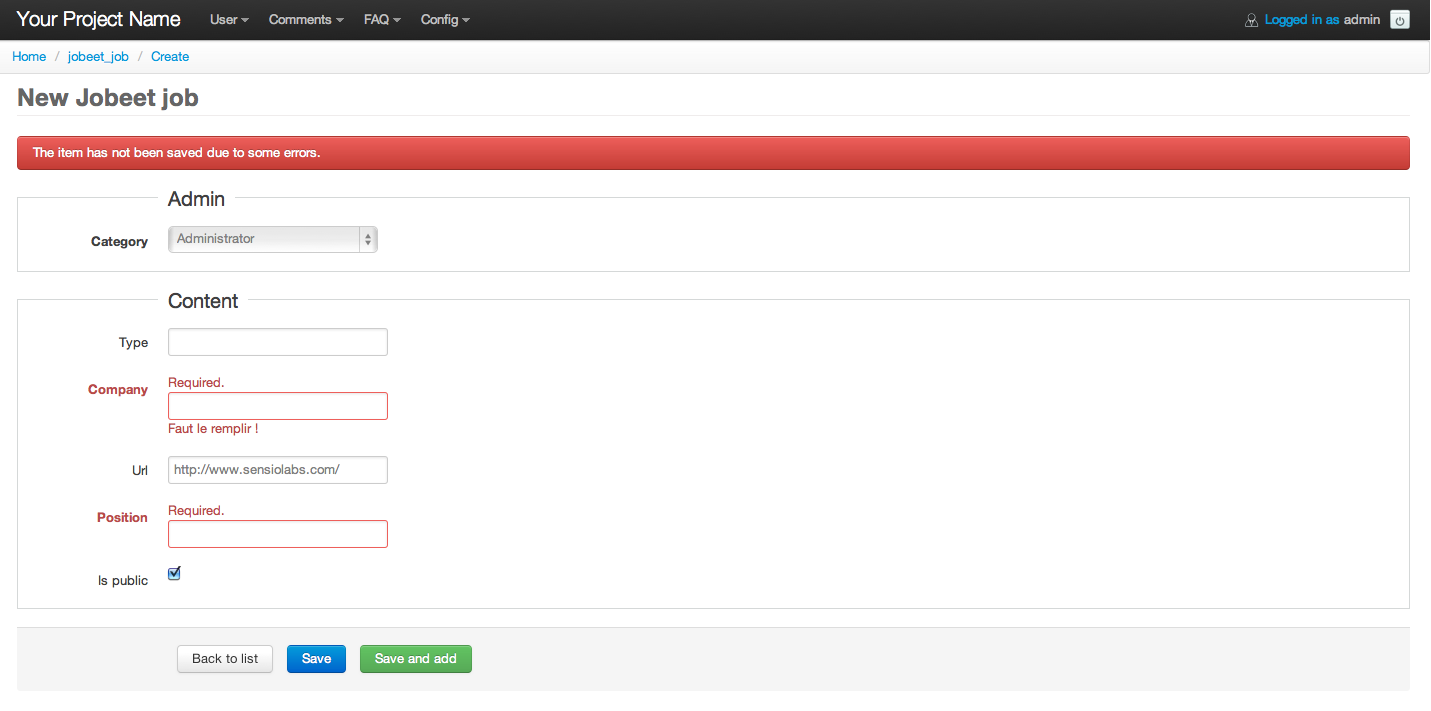
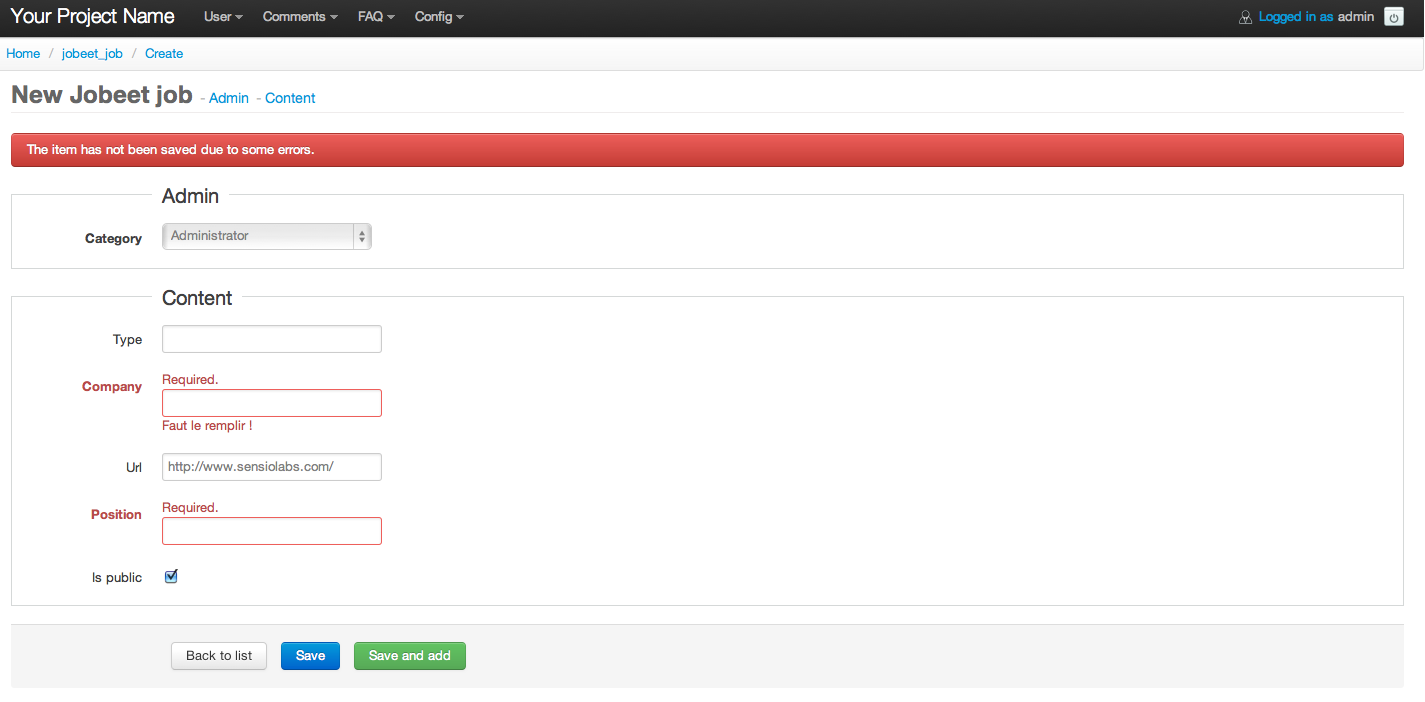
Added top links to fieldset in new/edit page
Added top links to fieldset (next to the title) in new/edit page. Scroll is performing using jQuery because of the top fixed bar.

diff --git a/web/js/application.js b/web/js/application.js
@@ -2,7 +2,6 @@ $(document).ready(function(){
 
   $('.topbar').dropdown();
 
-
   // table sort example
   // ==================
 
@@ -35,6 +34,12 @@ $(document).ready(function(){
         .twipsy('show')
       })
   })
+
+  $('a.link-to-fieldset').click(function() {
+    field = $(this).attr('href').substr(1, $(this).attr('href').length);
+    $(window).scrollTop($('#sf_fieldset_'+field).position().top + 30);
+    return false;
+  })
 });
 
 /**
@@ -43,7 +48,8 @@ $(document).ready(function(){
  */
 function copyIds()
 {
-    $('.sf_admin_batch_checkbox:checked').each(function() {
-        $('#batch_checked_ids').append('<option value="'+$(this).val()+'" selected="selected">'+$(this).val()+'</option>');
-    });
+  $('.sf_admin_batch_checkbox:checked').each(function() {
+    $('#batch_checked_ids').append('<option value="'+$(this).val()+'" selected="selected">'+$(this).val()+'</option>');
+  });
 }
+

diff --git a/data/generator/sfDoctrineModule/twitter/template/templates/editSuccess.php b/data/generator/sfDoctrineModule/twitter/template/templates/editSuccess.php
@@ -2,7 +2,18 @@
 [?php include_partial('<?php echo $this->getModuleName() ?>/assets') ?]
 
 <div id="sf_admin_container">
-  <h2 class="mbl">[?php echo <?php echo $this->getI18NString('edit.title') ?> ?]</h2>
+  <h2 class="mbl">
+    [?php echo <?php echo $this->getI18NString('edit.title') ?> ?]
+
+    [?php if(true == sfTwitterBootstrap::getProperty('top_link_to_fieldset')): ?]
+      [?php foreach ($configuration->getFormFields($form, $form->isNew() ? 'new' : 'edit') as $fieldset => $fields): ?]
+        [?php if ('NONE' != $fieldset): ?]
+          [?php $fieldset_name = __($fieldset, array(), '<?php echo $this->getI18nCatalogue() ?>') ?]
+            <small>- <a class="link-to-fieldset" href="#[?php echo preg_replace('/[^a-z0-9_]/', '_', strtolower($fieldset_name)) ?]">[?php echo $fieldset_name ?]</a></small>
+        [?php endif; ?]
+      [?php endforeach; ?]
+    [?php endif; ?]
+  </h2>
 
   [?php include_partial('<?php echo $this->getModuleName() ?>/flashes') ?]
 

diff --git a/data/generator/sfPropelModule/twitter/template/templates/editSuccess.php b/data/generator/sfPropelModule/twitter/template/templates/editSuccess.php
@@ -2,7 +2,18 @@
 [?php include_partial('<?php echo $this->getModuleName() ?>/assets') ?]
 
 <div id="sf_admin_container">
-  <h2 class="mbl">[?php echo <?php echo $this->getI18NString('edit.title') ?> ?]</h2>
+  <h2 class="mbl">
+    [?php echo <?php echo $this->getI18NString('edit.title') ?> ?]
+
+    [?php if(true == sfTwitterBootstrap::getProperty('top_link_to_fieldset')): ?]
+      [?php foreach ($configuration->getFormFields($form, $form->isNew() ? 'new' : 'edit') as $fieldset => $fields): ?]
+        [?php if ('NONE' != $fieldset): ?]
+          [?php $fieldset_name = __($fieldset, array(), '<?php echo $this->getI18nCatalogue() ?>') ?]
+            <small>- <a class="link-to-fieldset" href="#[?php echo preg_replace('/[^a-z0-9_]/', '_', strtolower($fieldset_name)) ?]">[?php echo $fieldset_name ?]</a></small>
+        [?php endif; ?]
+      [?php endforeach; ?]
+    [?php endif; ?]
+  </h2>
 
   [?php include_partial('<?php echo $this->getModuleName() ?>/flashes') ?]
 

diff --git a/data/generator/sfDoctrineModule/twitter/template/templates/newSuccess.php b/data/generator/sfDoctrineModule/twitter/template/templates/newSuccess.php
@@ -2,7 +2,18 @@
 [?php include_partial('<?php echo $this->getModuleName() ?>/assets') ?]
 
 <div id="sf_admin_container">
-  <h2 class="mbl">[?php echo <?php echo $this->getI18NString('new.title') ?> ?]</h2>
+  <h2 class="mbl">
+    [?php echo <?php echo $this->getI18NString('new.title') ?> ?]
+
+    [?php if(true == sfTwitterBootstrap::getProperty('top_link_to_fieldset')): ?]
+      [?php foreach ($configuration->getFormFields($form, $form->isNew() ? 'new' : 'edit') as $fieldset => $fields): ?]
+        [?php if ('NONE' != $fieldset): ?]
+          [?php $fieldset_name = __($fieldset, array(), '<?php echo $this->getI18nCatalogue() ?>') ?]
+            <small>- <a class="link-to-fieldset" href="#[?php echo preg_replace('/[^a-z0-9_]/', '_', strtolower($fieldset_name)) ?]">[?php echo $fieldset_name ?]</a></small>
+        [?php endif; ?]
+      [?php endforeach; ?]
+    [?php endif; ?]
+  </h2>
 
   [?php include_partial('<?php echo $this->getModuleName() ?>/flashes') ?]
 

diff --git a/data/generator/sfPropelModule/twitter/template/templates/newSuccess.php b/data/generator/sfPropelModule/twitter/template/templates/newSuccess.php
@@ -2,7 +2,18 @@
 [?php include_partial('<?php echo $this->getModuleName() ?>/assets') ?]
 
 <div id="sf_admin_container">
-  <h2 class="mbl">[?php echo <?php echo $this->getI18NString('new.title') ?> ?]</h2>
+  <h2 class="mbl">
+    [?php echo <?php echo $this->getI18NString('new.title') ?> ?]
+
+    [?php if(true == sfTwitterBootstrap::getProperty('top_link_to_fieldset')): ?]
+      [?php foreach ($configuration->getFormFields($form, $form->isNew() ? 'new' : 'edit') as $fieldset => $fields): ?]
+        [?php if ('NONE' != $fieldset): ?]
+          [?php $fieldset_name = __($fieldset, array(), '<?php echo $this->getI18nCatalogue() ?>') ?]
+            <small>- <a class="link-to-fieldset" href="#[?php echo preg_replace('/[^a-z0-9_]/', '_', strtolower($fieldset_name)) ?]">[?php echo $fieldset_name ?]</a></small>
+        [?php endif; ?]
+      [?php endforeach; ?]
+    [?php endif; ?]
+  </h2>
 
   [?php include_partial('<?php echo $this->getModuleName() ?>/flashes') ?]
 

diff --git a/data/generator/sfDoctrineModule/twitter/template/templates/_form_fieldset.php b/data/generator/sfDoctrineModule/twitter/template/templates/_form_fieldset.php
@@ -1,3 +1,9 @@
+
+[?php if (true == sfTwitterBootstrap::getProperty('top_link_to_fieldset') && 'NONE' != $fieldset): ?]
+  [?php $fieldset_name = __($fieldset, array(), '<?php echo $this->getI18nCatalogue() ?>') ?]
+  <a name="[?php echo preg_replace('/[^a-z0-9_]/', '_', strtolower($fieldset)) ?]"></a>
+[?php endif; ?]
+
 <fieldset id="sf_fieldset_[?php echo preg_replace('/[^a-z0-9_]/', '_', strtolower($fieldset)) ?]">
   [?php if ('NONE' != $fieldset): ?]
     <legend>[?php echo __($fieldset, array(), '<?php echo $this->getI18nCatalogue() ?>') ?]</legend>

diff --git a/data/generator/sfPropelModule/twitter/template/templates/_form_fieldset.php b/data/generator/sfPropelModule/twitter/template/templates/_form_fieldset.php
@@ -1,3 +1,9 @@
+
+[?php if (true == sfTwitterBootstrap::getProperty('top_link_to_fieldset') && 'NONE' != $fieldset): ?]
+  [?php $fieldset_name = __($fieldset, array(), '<?php echo $this->getI18nCatalogue() ?>') ?]
+  <a name="[?php echo preg_replace('/[^a-z0-9_]/', '_', strtolower($fieldset)) ?]"></a>
+[?php endif; ?]
+
 <fieldset id="sf_fieldset_[?php echo preg_replace('/[^a-z0-9_]/', '_', strtolower($fieldset)) ?]">
   [?php if ('NONE' != $fieldset): ?]
     <legend>[?php echo __($fieldset, array(), '<?php echo $this->getI18nCatalogue() ?>') ?]</legend>

diff --git a/README.md b/README.md
@@ -11,9 +11,15 @@ You might need [sfGuardPlugin](http://www.symfony-project.org/plugins/sfGuardPlu
 
 ## Screenshots
 
+Preview of list:
+
 ![Preview of list](https://github.com/real-chocopanda/sfTwitterBootstrapPlugin/raw/master/doc/list.png)
 
-![Preview of list](https://github.com/real-chocopanda/sfTwitterBootstrapPlugin/raw/master/doc/edit.png)
+Preview of edit:
+
+![Preview of edit](https://github.com/real-chocopanda/sfTwitterBootstrapPlugin/raw/master/doc/edit.png)
+
+Preview of login:
 
 ![Preview of login](https://github.com/real-chocopanda/sfTwitterBootstrapPlugin/raw/master/doc/login.png)
 
@@ -60,7 +66,9 @@ In ``apps/backend/config/app.yml``
 ```yaml
 all:
   sf_twitter_bootstrap:
-    site:  Your project name
+    site:                   Your project name
+    # if you want top links to fieldset legend in new/edit page (like "Admin & Content" in the edit screenshot)
+    top_link_to_fieldset:   true
 ```
 
 In ``apps/backend/config/settings.yml``
